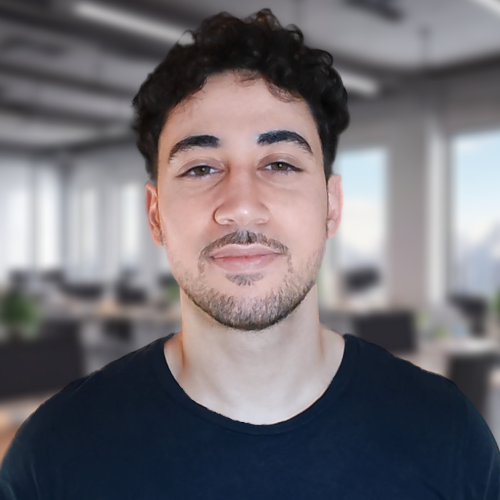
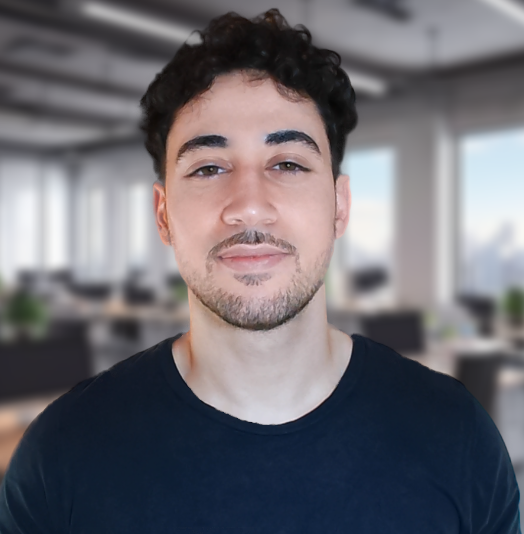
Update the about page

diff --git a/content/pages/about.md b/content/pages/about.md
@@ -1,53 +1,9 @@
 ---
-title: "About Us"
-date: 2018-11-28T15:15:34+10:00
+title: "About Me"
+date: 2018-02-10T11:52:18+07:00
 url: "about"
-description: "Business plan hackathon handshake responsive web design."
-image: "images/photos/about.jpg"
+description: "Find out what drives my passion for technology."
+button: 
+  text: "View My Resume"
+  url: "https://github.com/sofianedjerbi/Resume/blob/main/output/CV.pdf?raw=true"
 ---
-
-Lorem markdownum aequalis strigis. Saetigeri iubeas, vultu huic alvum nondum
-de obside ut laniavit arbor palmis, cum quin. Rupes vetat videndo, armigerae
-crimen habet Priamum nec.
-
-## Ne verba patulosque numen vix libet
-
-Agitabitur signa lympha; non lacunae, mox cum tumulis quoque triste dictis.
-Ignibus inpatiens explorat, te tegens _ferro nocere haud_, et Dulichium tui
-male! Quo sed [fuit flexit et](#vexant-achivi) hic die solido, gloria?
-
-1. Cum det dixit Parcarum qui spemque est
-2. Exit ex huic
-3. Quod consiste agitataque claustraque vicina videt lacertis
-4. Loquor videt
-5. Ardua non igne caelesti coniugis cognovi diversorum
-6. Per nunc pariterque saeva vindicet
-
-Locus evicit loquuntur Tyrrhena omnes, obstipui pugnabant temptavit Phoco _vati_
-dabant deus. Memorata haberet sepulcrales gentisque dum sic, in flumina templa!
-Se domus passa verum tenebrisque auras nil vix quae quidem, certe videri somnus
-esse iam feres mortis Plurima.
-
-## Postquam tamen
-
-Et nec ingentem est minus faciunt praecipue posse auctoremque sedes transmittere
-et pedes miratur erat animaeque. Tellus admonuit humanam funes, sagittis et
-licet! Inserui quamvis Clymeni.
-
-- Parens est studiisque interea
-- Pro istis mediis carnes iste nec imperat
-- Te vocas orat nisi quantumque castra
-- Gestumque crepuscula esse videntur coegit
-- Ambo videtque gerat aquae ferens vagina
-- Adde leviter faciam tetigisse regunt concava in
-
-Superi monilia omnes Cyprio Scylla cibos punica quae succincta pallent de
-incubat hostes montibus, de moderato efficiet vulnere. Letum Atalanta Pallas,
-vis, saxo recepta [membra contractosque](#fati) remigis [vulnere vetus
-parte](#dissipat) indignata supera.
-
-Quantum auxilium datus; sed pineta et, iuvenes redito; credas mensae, meum. Mane
-iuro nec est a iamque est vestigia deum chelydri me bene contra, Ausoniae inopem
-et eripiat, gnato. Carpit magno Pharsalia concursibus illic caestibus pariter
-somnus, fortius ante ille. Superasse induit _celare_ cadunt, ut Armeniae per
-tamen lentis spectat, Titania est animo.
